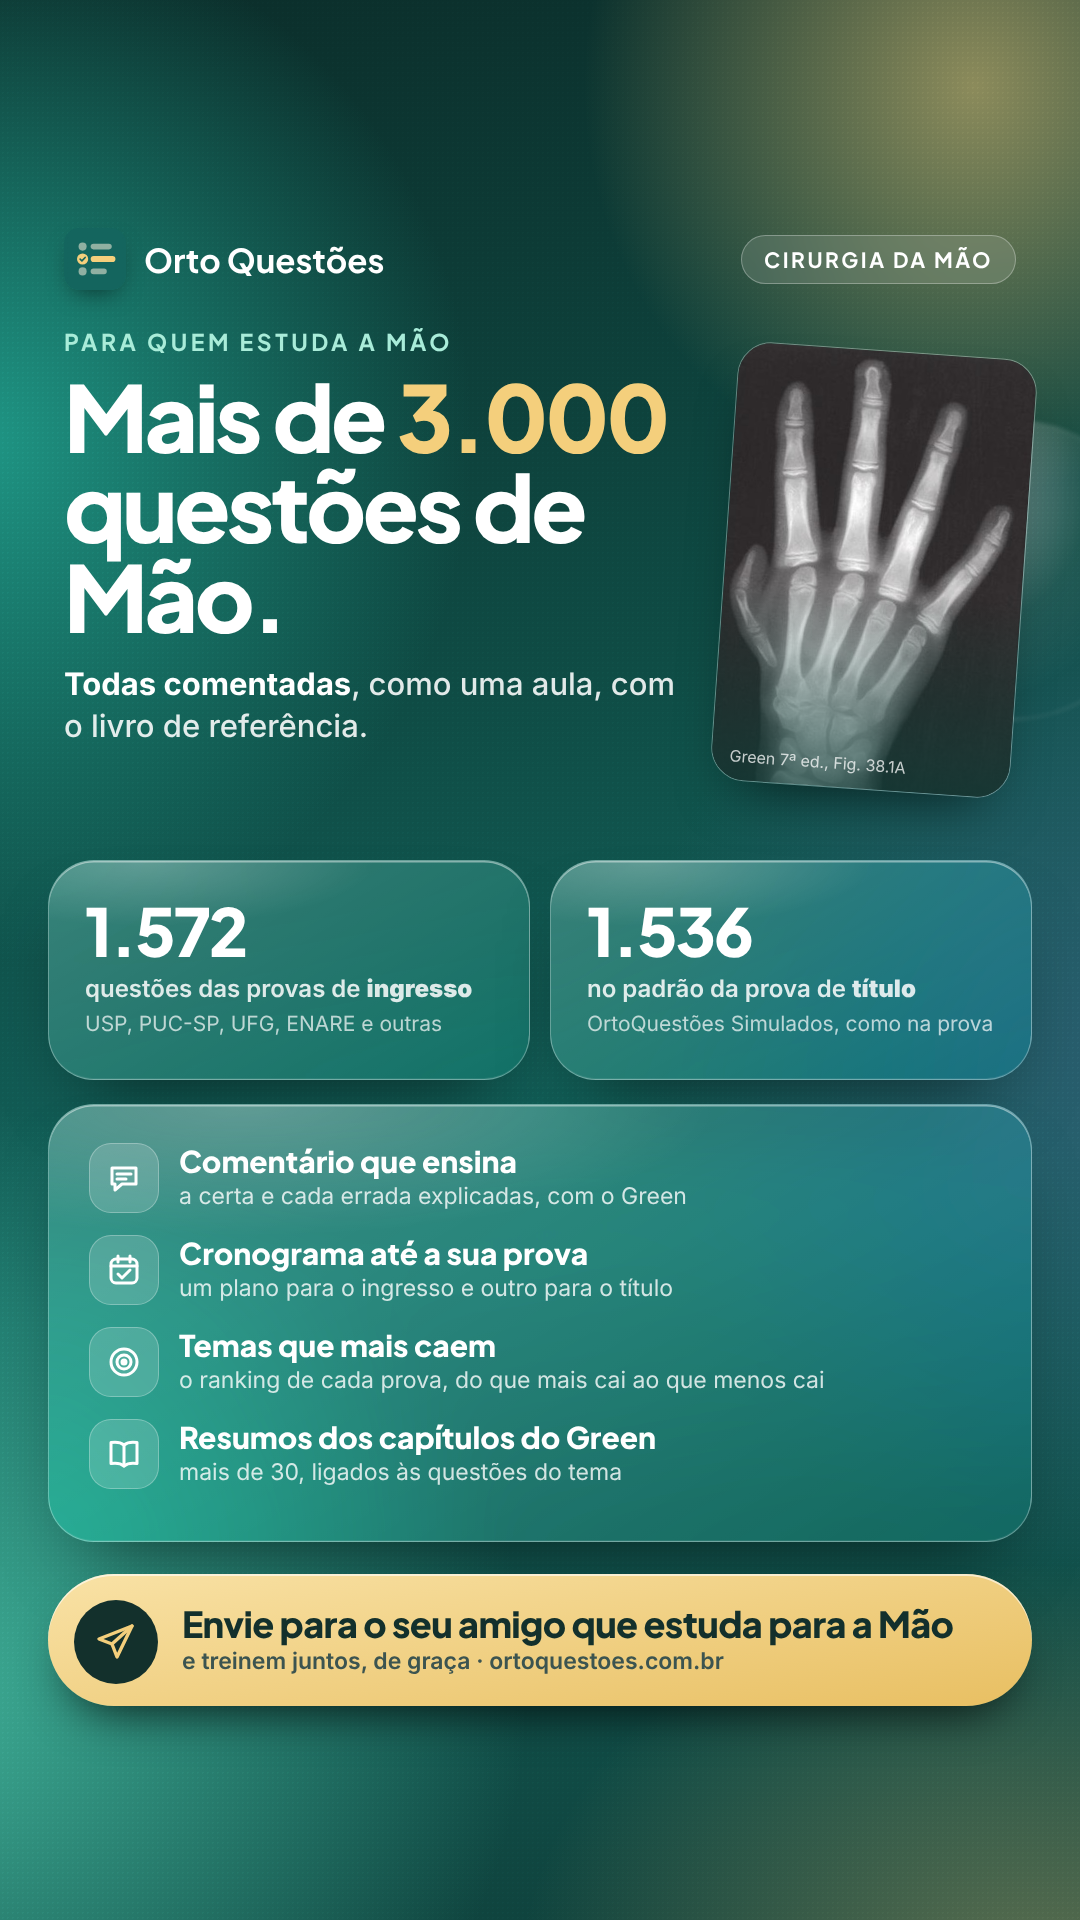
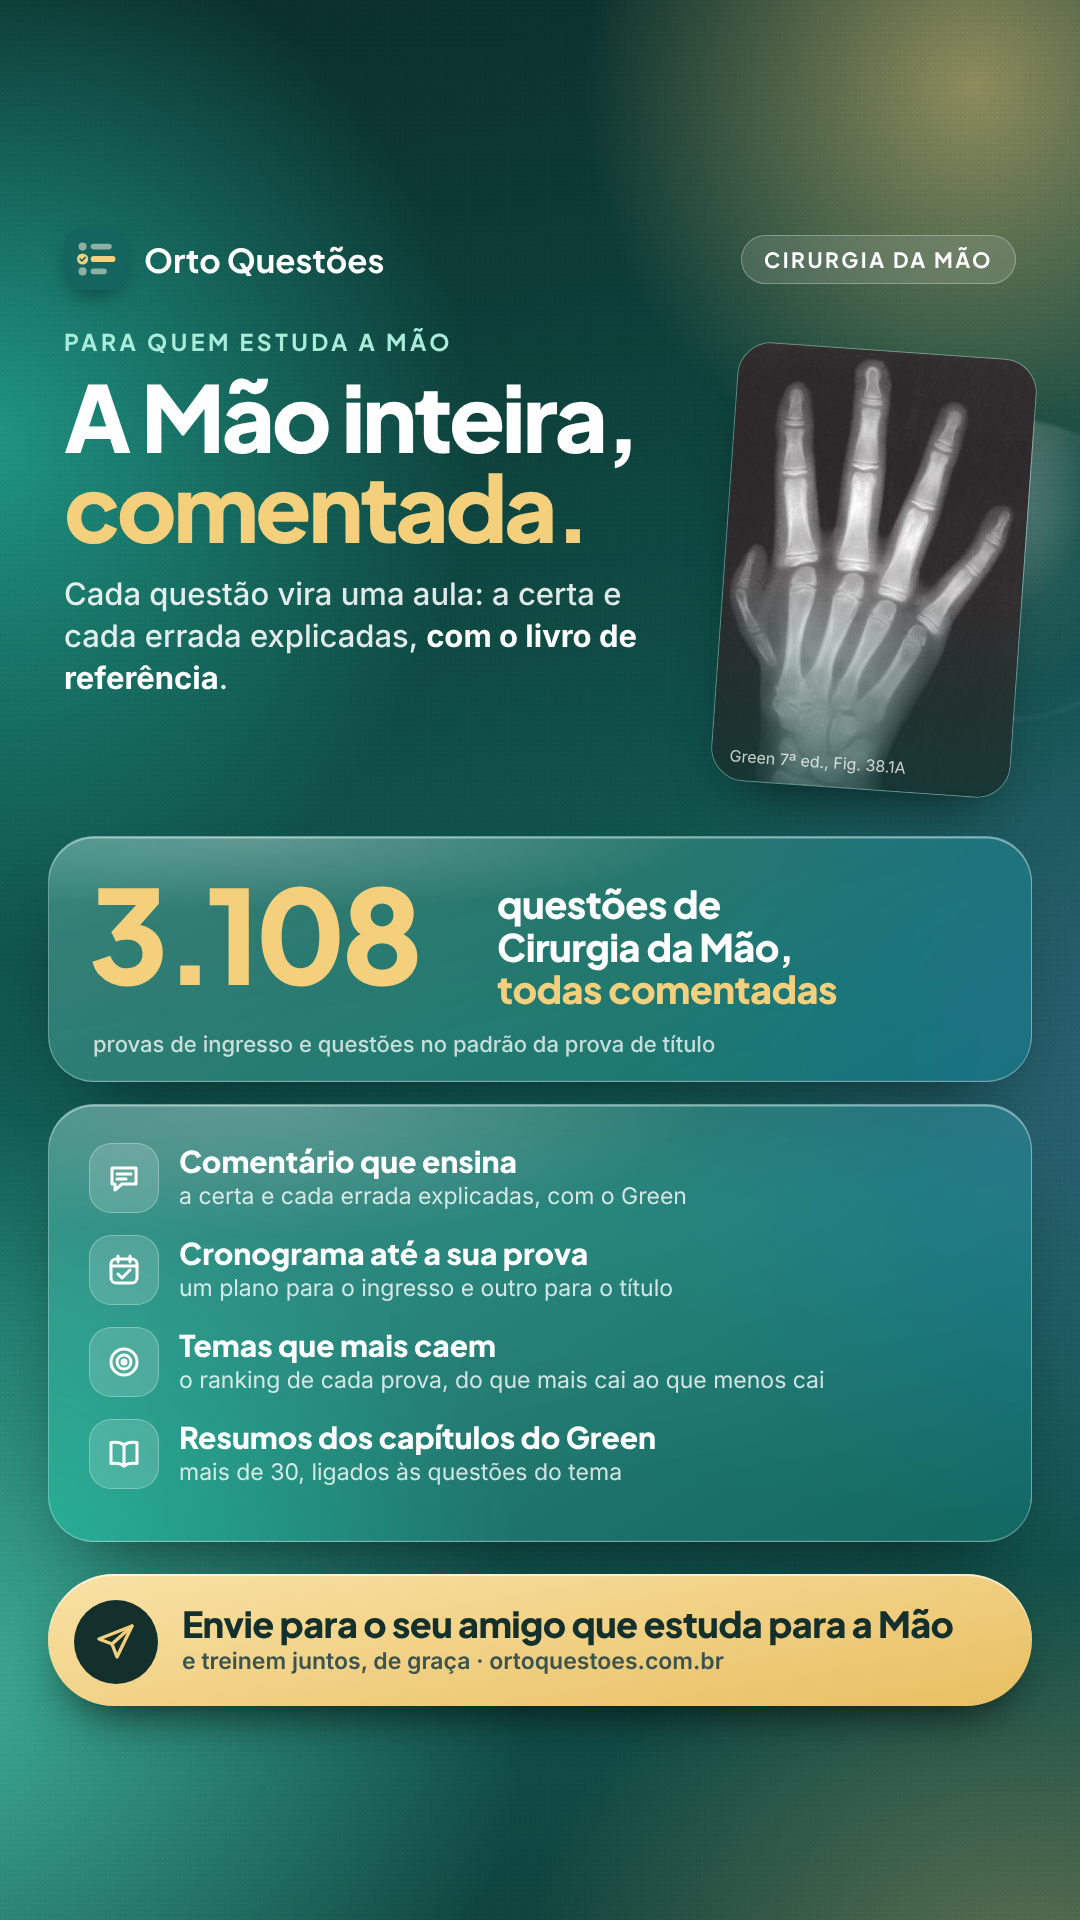
Story da Mão: une os dois números em 3.108 questões, todas comentadas
Claude-Session: https://claude.ai/code/session_01GbKh11zCitYpbRvWcxSxNK

diff --git a/marketing/instagram/posts/2026-11-21-mao-amigo/story.html b/marketing/instagram/posts/2026-11-21-mao-amigo/story.html
@@ -88,16 +88,16 @@ h1 em { font-style: normal; color: var(--ouro); }
 
   <div style="position:absolute; left:64px; width:620px; top:330px;">
     <div class="rot">Para quem estuda a Mão</div>
-    <h1 style="margin-top:18px;">Mais de <em>3.000</em> questões de Mão.</h1>
-    <p class="lead" style="margin-top:22px;"><b>Todas comentadas</b>, como uma aula, com o livro de referência.</p>
+    <h1 style="margin-top:18px;">A Mão inteira, <em>comentada.</em></h1>
+    <p class="lead" style="margin-top:22px;">Cada questão vira uma aula: a certa e cada errada explicadas, <b>com o livro de referência</b>.</p>
   </div>
   <div class="foto" style="right:56px; width:300px; height:440px; top:350px; transform:rotate(4deg);"><img src="img/mao.png" alt=""><span>Green 7ª ed., Fig. 38.1A</span></div>
 
-  <div class="vidro" style="left:48px; width:482px; top:860px; height:220px;">
-    <div style="position:absolute; left:36px; right:30px; top:36px;"><div class="num">1.572</div><div class="lbl">questões das provas de <b>ingresso</b></div><div class="lbl" style="margin-top:6px; font-weight:400; font-size:21px; color:rgba(255,255,255,.7);">USP, PUC-SP, UFG, ENARE e outras</div></div>
+  <div class="vidro" style="left:48px; right:48px; top:836px; height:246px;">
+    <div style="position:absolute; left:40px; top:30px;" class="num"><span style="font-size:130px; letter-spacing:-5px; color:var(--ouro);">3.108</span></div>
+    <div style="position:absolute; left:448px; right:30px; top:46px; font:800 38px/1.12 Jakarta; letter-spacing:-.6px;">questões de<br>Cirurgia da Mão,<br><span style="color:var(--ouro);">todas comentadas</span></div>
+    <div style="position:absolute; left:44px; right:30px; bottom:26px; font:500 22px/1 Inter; color:rgba(255,255,255,.75);">provas de ingresso e questões no padrão da prova de título</div>
   </div>
-  <div class="vidro" style="right:48px; width:482px; top:860px; height:220px;">
-    <div style="position:absolute; left:36px; right:30px; top:36px;"><div class="num">1.536</div><div class="lbl">no padrão da prova de <b>título</b></div><div class="lbl" style="margin-top:6px; font-weight:400; font-size:21px; color:rgba(255,255,255,.7);">OrtoQuestões Simulados, como na prova</div></div>
   </div>
 
   <div class="vidro" style="left:48px; right:48px; top:1104px; height:438px;">

diff --git a/marketing/instagram/posts/2026-11-21-mao-amigo/LEGENDA.md b/marketing/instagram/posts/2026-11-21-mao-amigo/LEGENDA.md
@@ -13,6 +13,6 @@ na imagem); para o "envie para o amigo" funcionar, o próprio botão de comparti
 
 - 1.572 questões das provas de ingresso (USP, PUC-SP, UFG, ENARE, INTO e outras), sem anuladas nem duplicadas.
 - 1.536 OrtoQuestões Simulados no padrão da prova de título (não são questões oficiais; a peça diz "no padrão").
-- 3.108 no total, todas com comentário ("mais de 3.000" na peça).
+- 3.108 no total, todas com comentário (na peça, o número único "3.108 questões de Cirurgia da Mão, todas comentadas", a pedido do Tales).
 - 32 resumos de capítulos do Green em `conteudo/biblioteca/` ("mais de 30").
 - Radiografia decorativa: Green's Operative Hand Surgery, 7ª ed., Fig. 38.1A (fonte escrita na foto).
